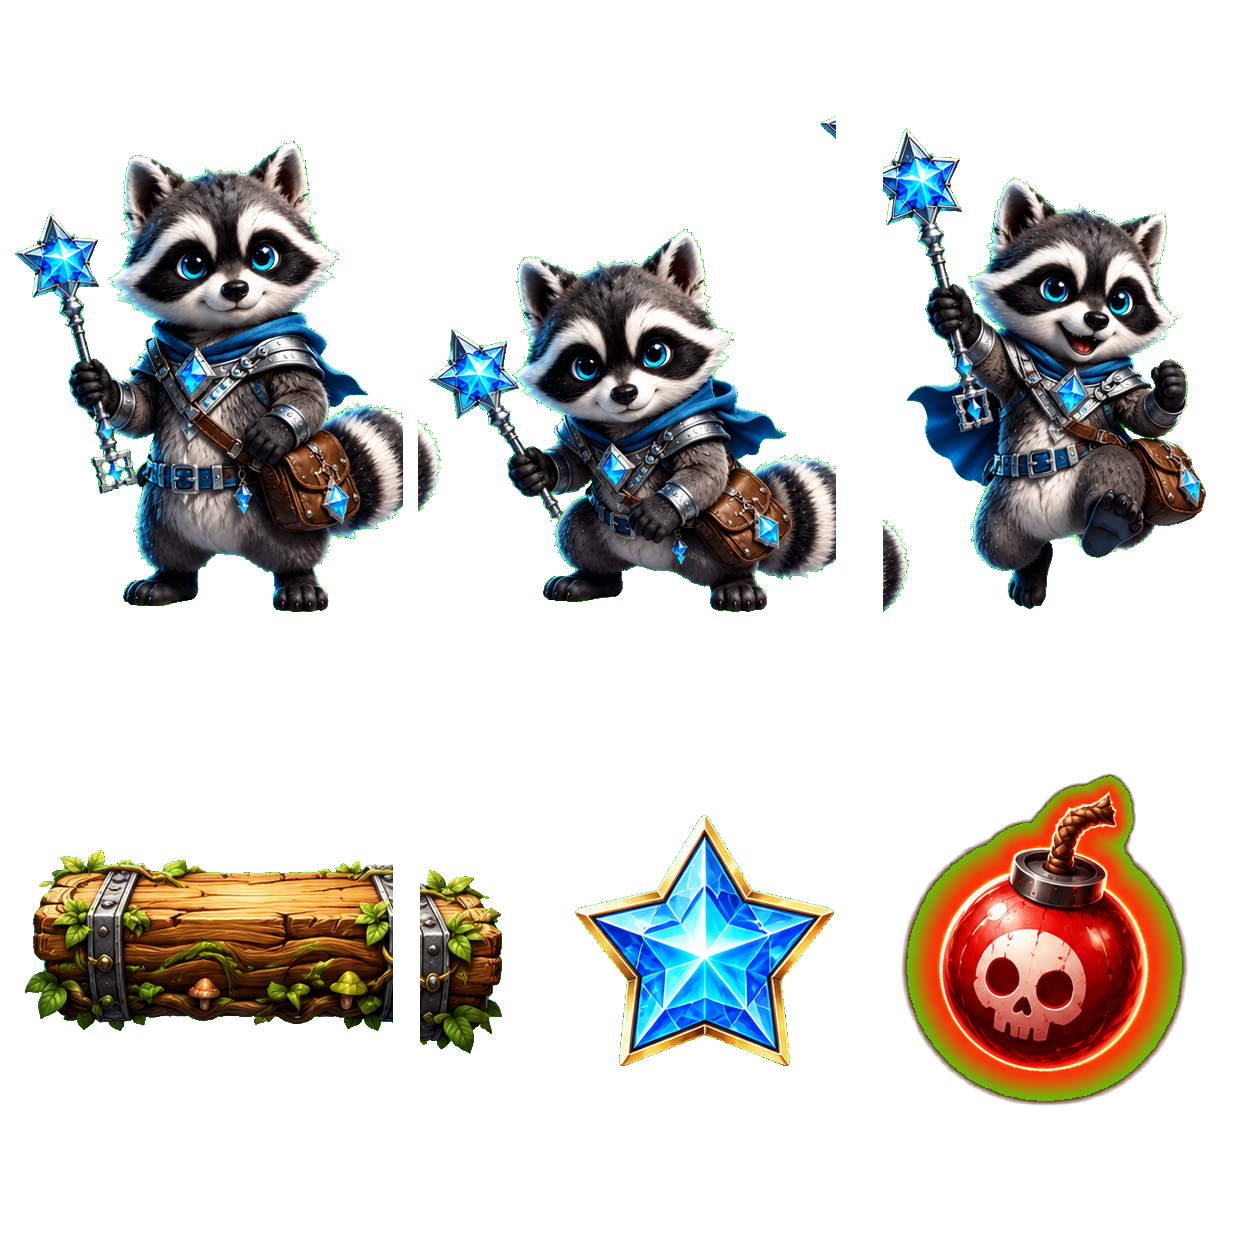
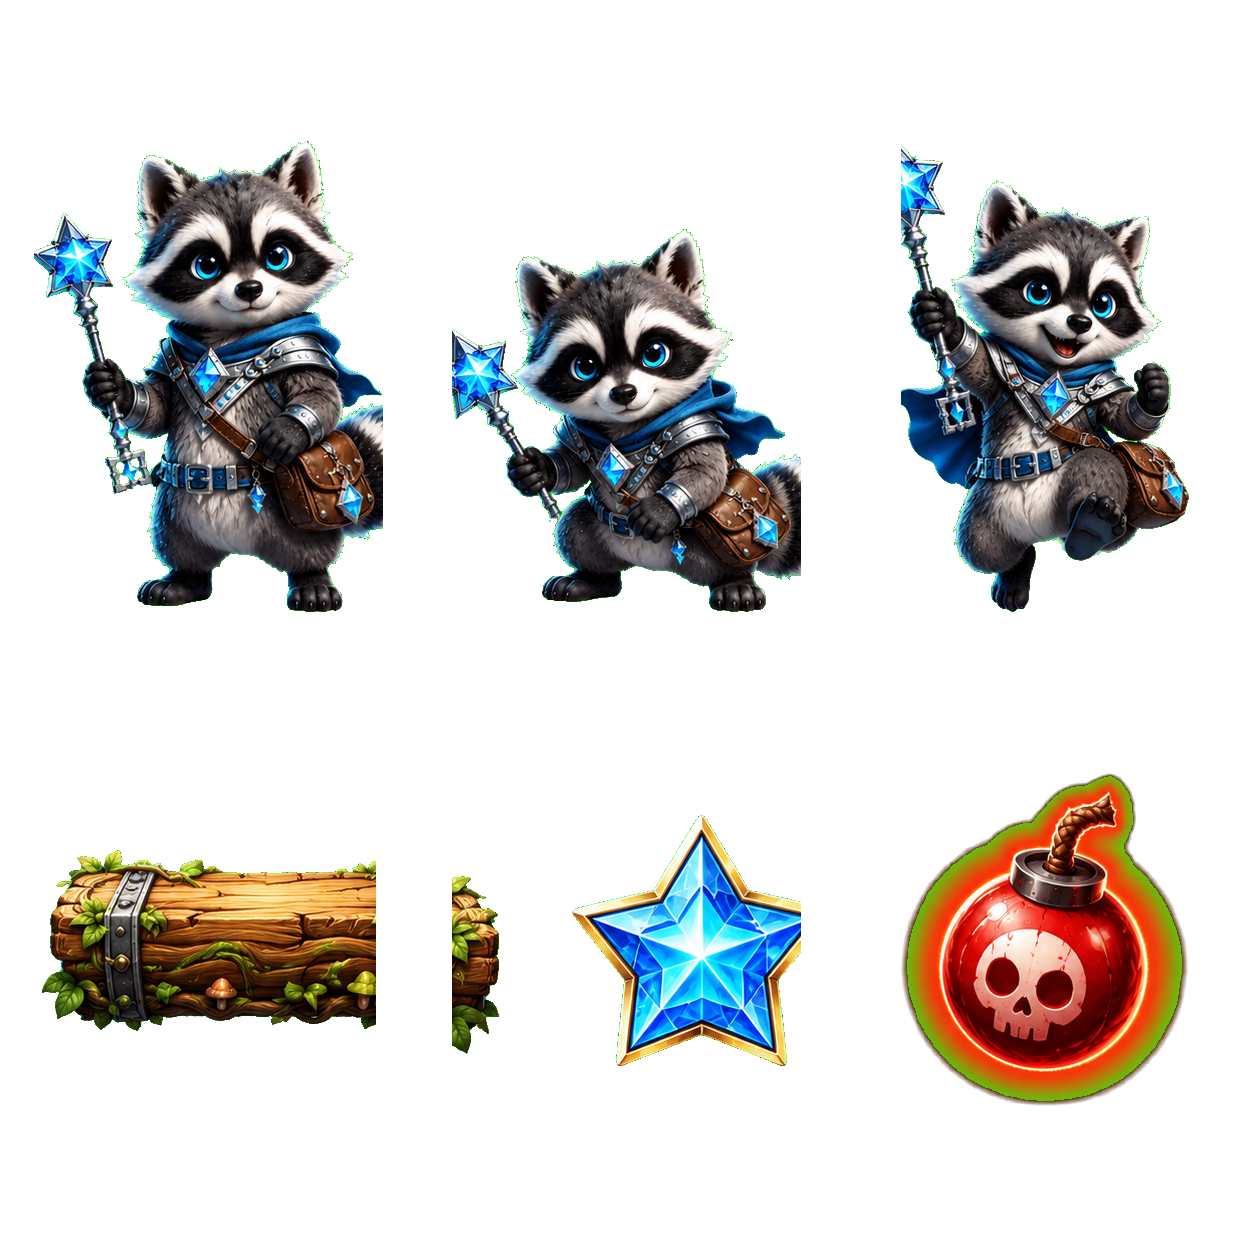
fix(jump-game): fix player jump flicker/disappearance and clean neighbor sprite sheet bleed

diff --git a/app/components/JumpGame.tsx b/app/components/JumpGame.tsx
@@ -337,39 +337,47 @@ export default function JumpGame({ childId, rewardId, characterId, characterName
     while (currentY > -g.levelHeight) {
       // Horizontal span reachable constraint
       let minX = Math.max(35, prevX - 165);
-      let maxX = Math.min(480 - 135, prevX + 165);
+      let maxX = Math.min(480 - 145, prevX + 165);
       let x = minX + Math.random() * (maxX - minX);
 
       const isMoving = Math.random() < 0.26;
       g.platforms.push({
         x,
         y: currentY,
-        w: 100,
+        w: 110, // Wider platforms to make landing easier for kids
         h: 20,
         type: isMoving ? "moving" : "normal",
         vx: isMoving ? (Math.random() < 0.5 ? -1.8 : 1.8) : 0,
-        rangeX: [30, 480 - 130]
+        rangeX: [30, 480 - 140]
       });
 
       prevX = x;
 
       // Spawn item or danger relative to platform
       const rand = Math.random();
-      if (rand < 0.28) {
+      if (rand < 0.32) {
         // Spawn star floating above platform
         g.stars.push({
-          x: x + 35,
+          x: x + 40,
           y: currentY - 45,
           w: 30,
           h: 30,
           collected: false
         });
-      } else if (rand > 0.76 && currentY < 400) { // No bombs on the very first few screens
-        // Spawn danger element floating
-        const offsetSide = Math.random() < 0.5 ? -45 : 45;
+      } else if (rand > 0.86 && currentY < 450) { // No bombs on the very first few screens
+        // Spawn danger element in a fair, dodgeable position
+        // Place it horizontally away from the platform center, or at the screen edges
+        const platformCenter = x + 55;
+        let dangerX = 40 + Math.random() * 400;
+        
+        // If it overlaps the platform center, nudge it to the sides
+        if (Math.abs(dangerX - platformCenter) < 90) {
+          dangerX = platformCenter > 240 ? 60 : 380;
+        }
+
         g.dangers.push({
-          x: Math.max(30, Math.min(450 - 35, x + 35 + offsetSide)),
-          y: currentY - 75,
+          x: Math.max(30, Math.min(450 - 35, dangerX)),
+          y: currentY - 68, // Halfway between platforms vertically
           w: 35,
           h: 35,
           active: true,
@@ -684,16 +692,18 @@ export default function JumpGame({ childId, rewardId, characterId, characterName
         // Dangers
         g.dangers.forEach((danger) => {
           if (danger.active && g.player.invulnerable <= 0) {
-            if (
-              g.player.x + 12 < danger.x + danger.w &&
-              g.player.x + g.player.width - 12 > danger.x &&
-              g.player.y + 12 < danger.y + danger.h &&
-              g.player.y + g.player.height - 12 > danger.y
-            ) {
+            // Precise circular collision for extra fairness (forgiving bounding sphere)
+            const playerCX = g.player.x + g.player.width / 2;
+            const playerCY = g.player.y + g.player.height / 2;
+            const dangerCX = danger.x + danger.w / 2;
+            const dangerCY = danger.y + danger.h / 2;
+            const dist = Math.hypot(playerCX - dangerCX, playerCY - dangerCY);
+
+            if (dist < 26) { // Forgiving threshold (player bounding circle + danger bounding circle overlap)
               // Collided with danger!
               danger.active = false;
               g.player.invulnerable = 1500; // 1.5s flashing immunity
-              g.player.vy = -5; // Small recoil hop
+              g.player.vy = -6.5; // Upward hop recoil
               playSound("hit");
 
               // Spawn toxic explosion particles
@@ -902,6 +912,27 @@ export default function JumpGame({ childId, rewardId, characterId, characterName
               }
               const pulse = Math.sin(danger.pulseTimer || 0) * 3;
               
+              // Draw a warning red glow circle behind the bomb
+              ctx.save();
+              const dangerCX = danger.x + danger.w / 2;
+              const dangerCY = dy + danger.h / 2;
+              
+              // Pulsing halo radius
+              const haloRadius = 18 + Math.sin(danger.pulseTimer || 0) * 4;
+              const haloGlow = ctx.createRadialGradient(
+                dangerCX, dangerCY, 2,
+                dangerCX, dangerCY, haloRadius
+              );
+              haloGlow.addColorStop(0, "rgba(239, 68, 68, 0.45)");
+              haloGlow.addColorStop(0.5, "rgba(239, 68, 68, 0.15)");
+              haloGlow.addColorStop(1, "rgba(239, 68, 68, 0)");
+              
+              ctx.fillStyle = haloGlow;
+              ctx.beginPath();
+              ctx.arc(dangerCX, dangerCY, haloRadius, 0, Math.PI * 2);
+              ctx.fill();
+              ctx.restore();
+              
               if (spriteImg.complete && spriteImg.naturalWidth > 0) {
                 // Col 2, Row 1 is the Danger Item
                 ctx.drawImage(
@@ -940,15 +971,24 @@ export default function JumpGame({ childId, rewardId, characterId, characterName
           }
 
           ctx.save();
-          // Bounce scale stretch animation
+          
+          // Move origin to the bottom center of the player
+          const cx = px + g.player.width / 2;
+          const cy = py + g.player.height;
+          ctx.translate(cx, cy);
+          
+          // Apply bounce scale squash/stretch
+          let scaleX = 1;
+          let scaleY = 1;
           if (g.player.bounceAnim > 0) {
-            const scaleY = 1 + g.player.bounceAnim * 0.15;
-            const scaleX = 1 - g.player.bounceAnim * 0.12;
-            const cx = px + g.player.width / 2;
-            const cy = py + g.player.height;
-            ctx.translate(cx, cy);
-            ctx.scale(scaleX, scaleY);
-            ctx.translate(-g.player.width / 2, -g.player.height);
+            scaleY = 1 + g.player.bounceAnim * 0.18;
+            scaleX = 1 - g.player.bounceAnim * 0.14;
+          }
+          ctx.scale(scaleX, scaleY);
+          
+          // Apply horizontal flipping
+          if (g.player.facingLeft) {
+            ctx.scale(-1, 1);
           }
 
           // Glow depending on invulnerable or normal
@@ -961,30 +1001,20 @@ export default function JumpGame({ childId, rewardId, characterId, characterName
           }
 
           if (spriteImg.complete && spriteImg.naturalWidth > 0) {
-            if (g.player.facingLeft) {
-              // Flip character horizontally
-              ctx.translate(px + g.player.width, py);
-              ctx.scale(-1, 1);
-              ctx.drawImage(
-                spriteImg,
-                col * 418, 0, 418, 627, // Source
-                0, 0, g.player.width, g.player.height // Dest
-              );
-            } else {
-              ctx.drawImage(
-                spriteImg,
-                col * 418, 0, 418, 627, // Source
-                px, py, g.player.width, g.player.height // Dest
-              );
-            }
+            // Draw centered around origin (bottom-center is at local 0,0)
+            ctx.drawImage(
+              spriteImg,
+              col * 418, 0, 418, 627, // Source
+              -g.player.width / 2, -g.player.height, g.player.width, g.player.height // Destination
+            );
           } else {
-            // Fallback square
+            // Fallback rendering centered around origin
             ctx.fillStyle = g.player.invulnerable > 0 ? "#f87171" : "#3b82f6";
-            ctx.fillRect(px, py, g.player.width, g.player.height);
+            ctx.fillRect(-g.player.width / 2, -g.player.height, g.player.width, g.player.height);
             ctx.fillStyle = "#ffffff";
             ctx.font = "30px sans-serif";
             ctx.textAlign = "center";
-            ctx.fillText(characterId === "streak-reward-9" ? "🐺" : "🦊", px + g.player.width/2, py + g.player.height/2 + 10);
+            ctx.fillText(characterId === "streak-reward-9" ? "🐺" : "🦊", 0, -g.player.height / 2 + 10);
           }
 
           ctx.restore();

diff --git a/scripts/reprocess-jump-vision.py b/scripts/reprocess-jump-vision.py
@@ -96,26 +96,42 @@ def process_vision(input_path, output_path):
                 
             cell_crop = img.crop((x0, y0, x1, y1))
             
-            # Find bounding box of non-transparent pixels in this cell
-            bbox = cell_crop.getbbox()
+            # Create a core copy and erase borders to sever neighboring cell bleed
+            core = cell_crop.copy()
+            core_pixels = core.load()
+            
+            # Erase left/right/top/bottom edges to prevent neighboring graphics bleed
+            border_x = 35
+            border_y = 25
+            cell_w_curr = x1 - x0
+            cell_h_curr = y1 - y0
+            
+            for x in range(cell_w_curr):
+                for y in range(cell_h_curr):
+                    if x < border_x or x > cell_w_curr - border_x or y < border_y or y > cell_h_curr - border_y:
+                        core_pixels[x, y] = (0, 0, 0, 0)
+            
+            # Find bounding box on the core (no bleed)
+            bbox = core.getbbox()
             if not bbox:
-                print(f"  Warning: Cell ({r}, {c}) is completely empty.")
+                print(f"  Warning: Cell ({r}, {c}) is completely empty after bleed erasure.")
                 continue
                 
             bx0, by0, bx1, by1 = bbox
             sprite_w = bx1 - bx0
             sprite_h = by1 - by0
             
-            sprite_img = cell_crop.crop(bbox)
+            # Crop from core to guarantee zero neighbor bleed
+            sprite_img = core.crop(bbox)
             
-            # Create a clean standard cell of size 418x627
+            # Create a clean cell of size 418x627
             clean_cell = Image.new("RGBA", (cell_w, cell_h), (0, 0, 0, 0))
             
             # Center horizontally
             dest_x = (cell_w - sprite_w) // 2
             
             if r == 0:
-                # Character: align bottom with 15px margin to keep feet fully visible on the pedestal
+                # Character: align bottom with 15px margin to keep feet fully visible
                 dest_y = cell_h - sprite_h - 15
             else:
                 # Item: center vertically
